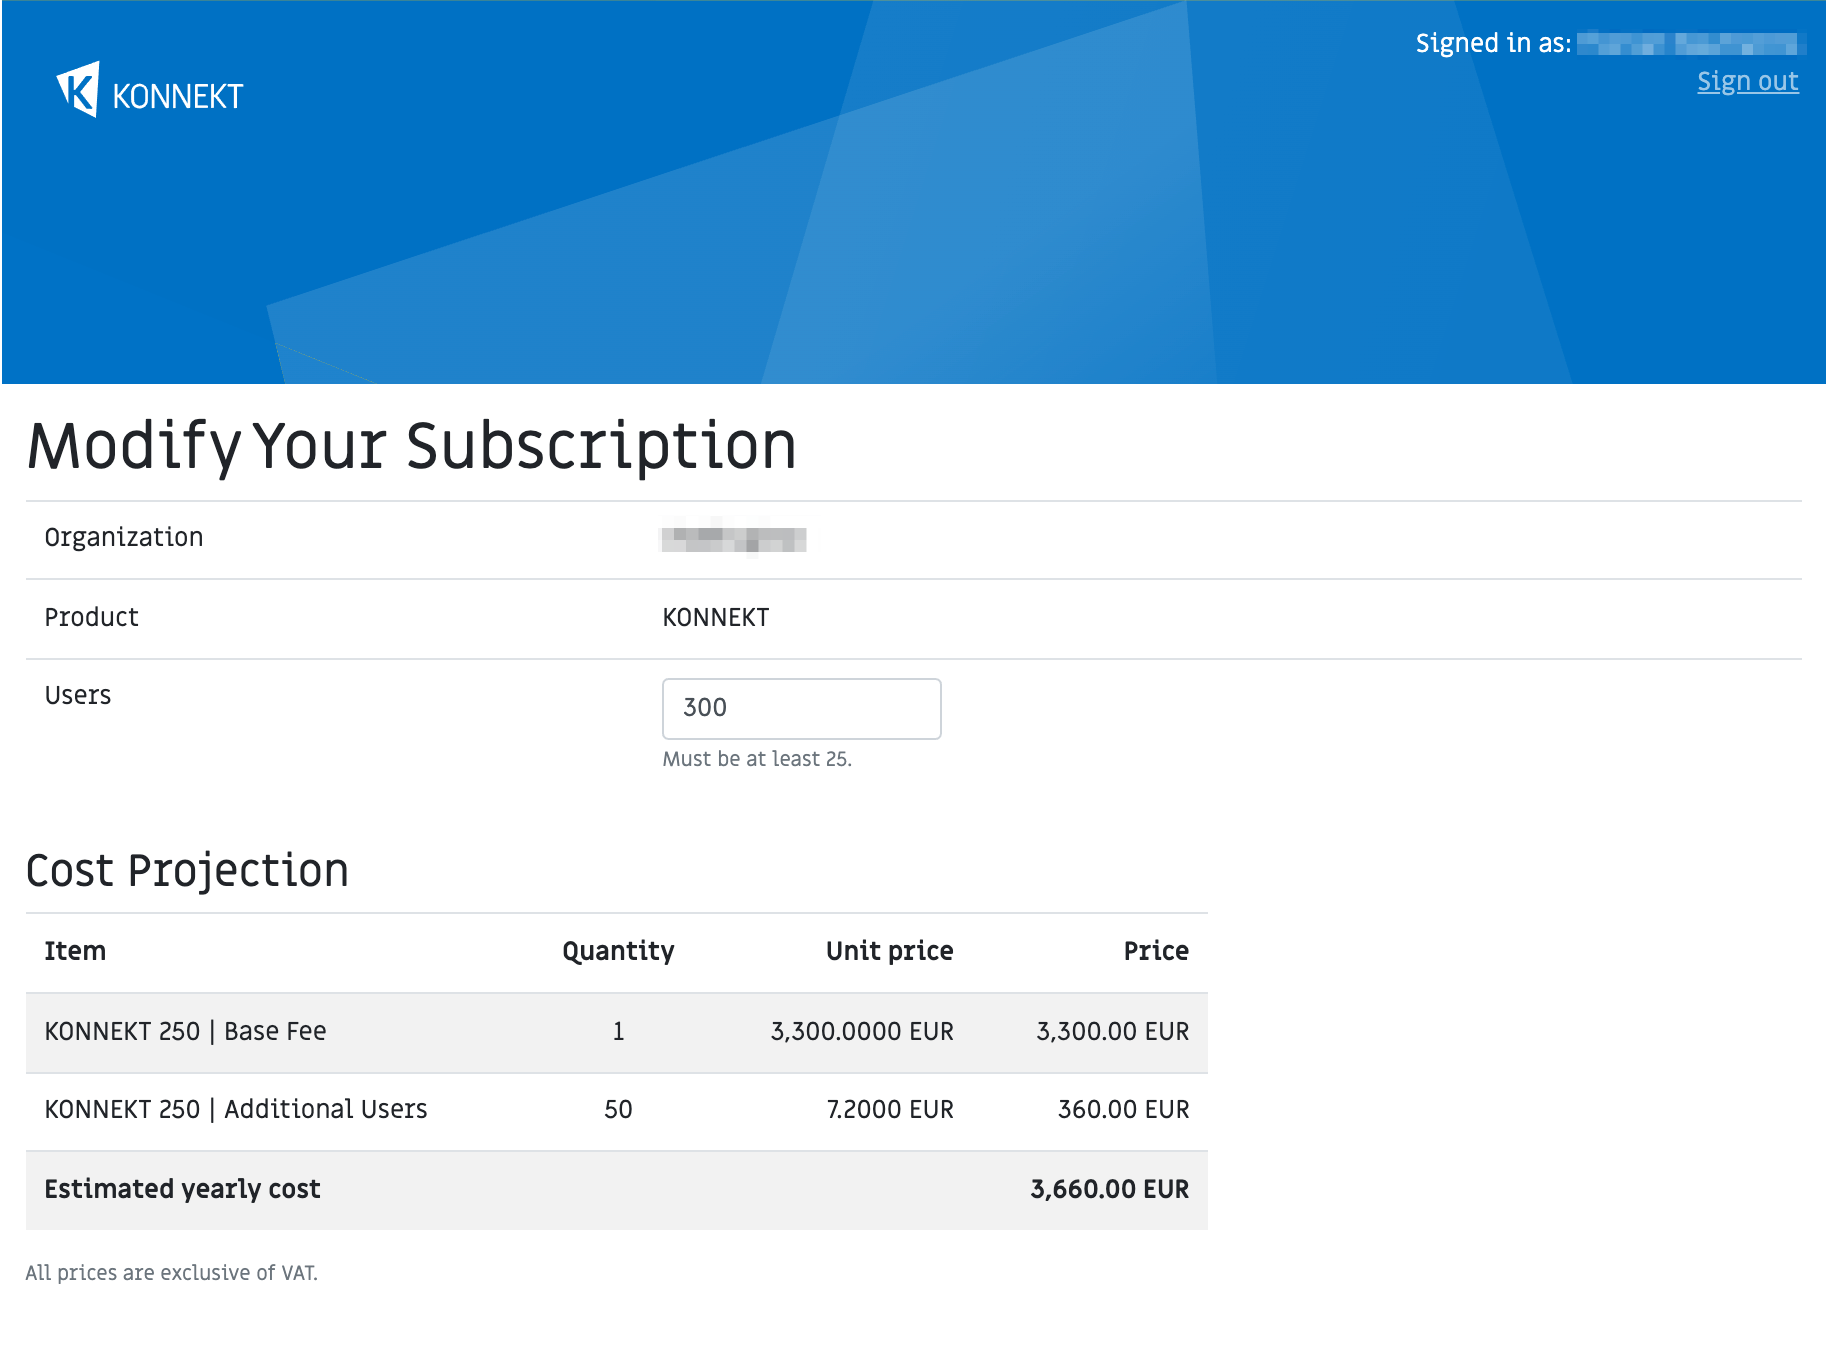
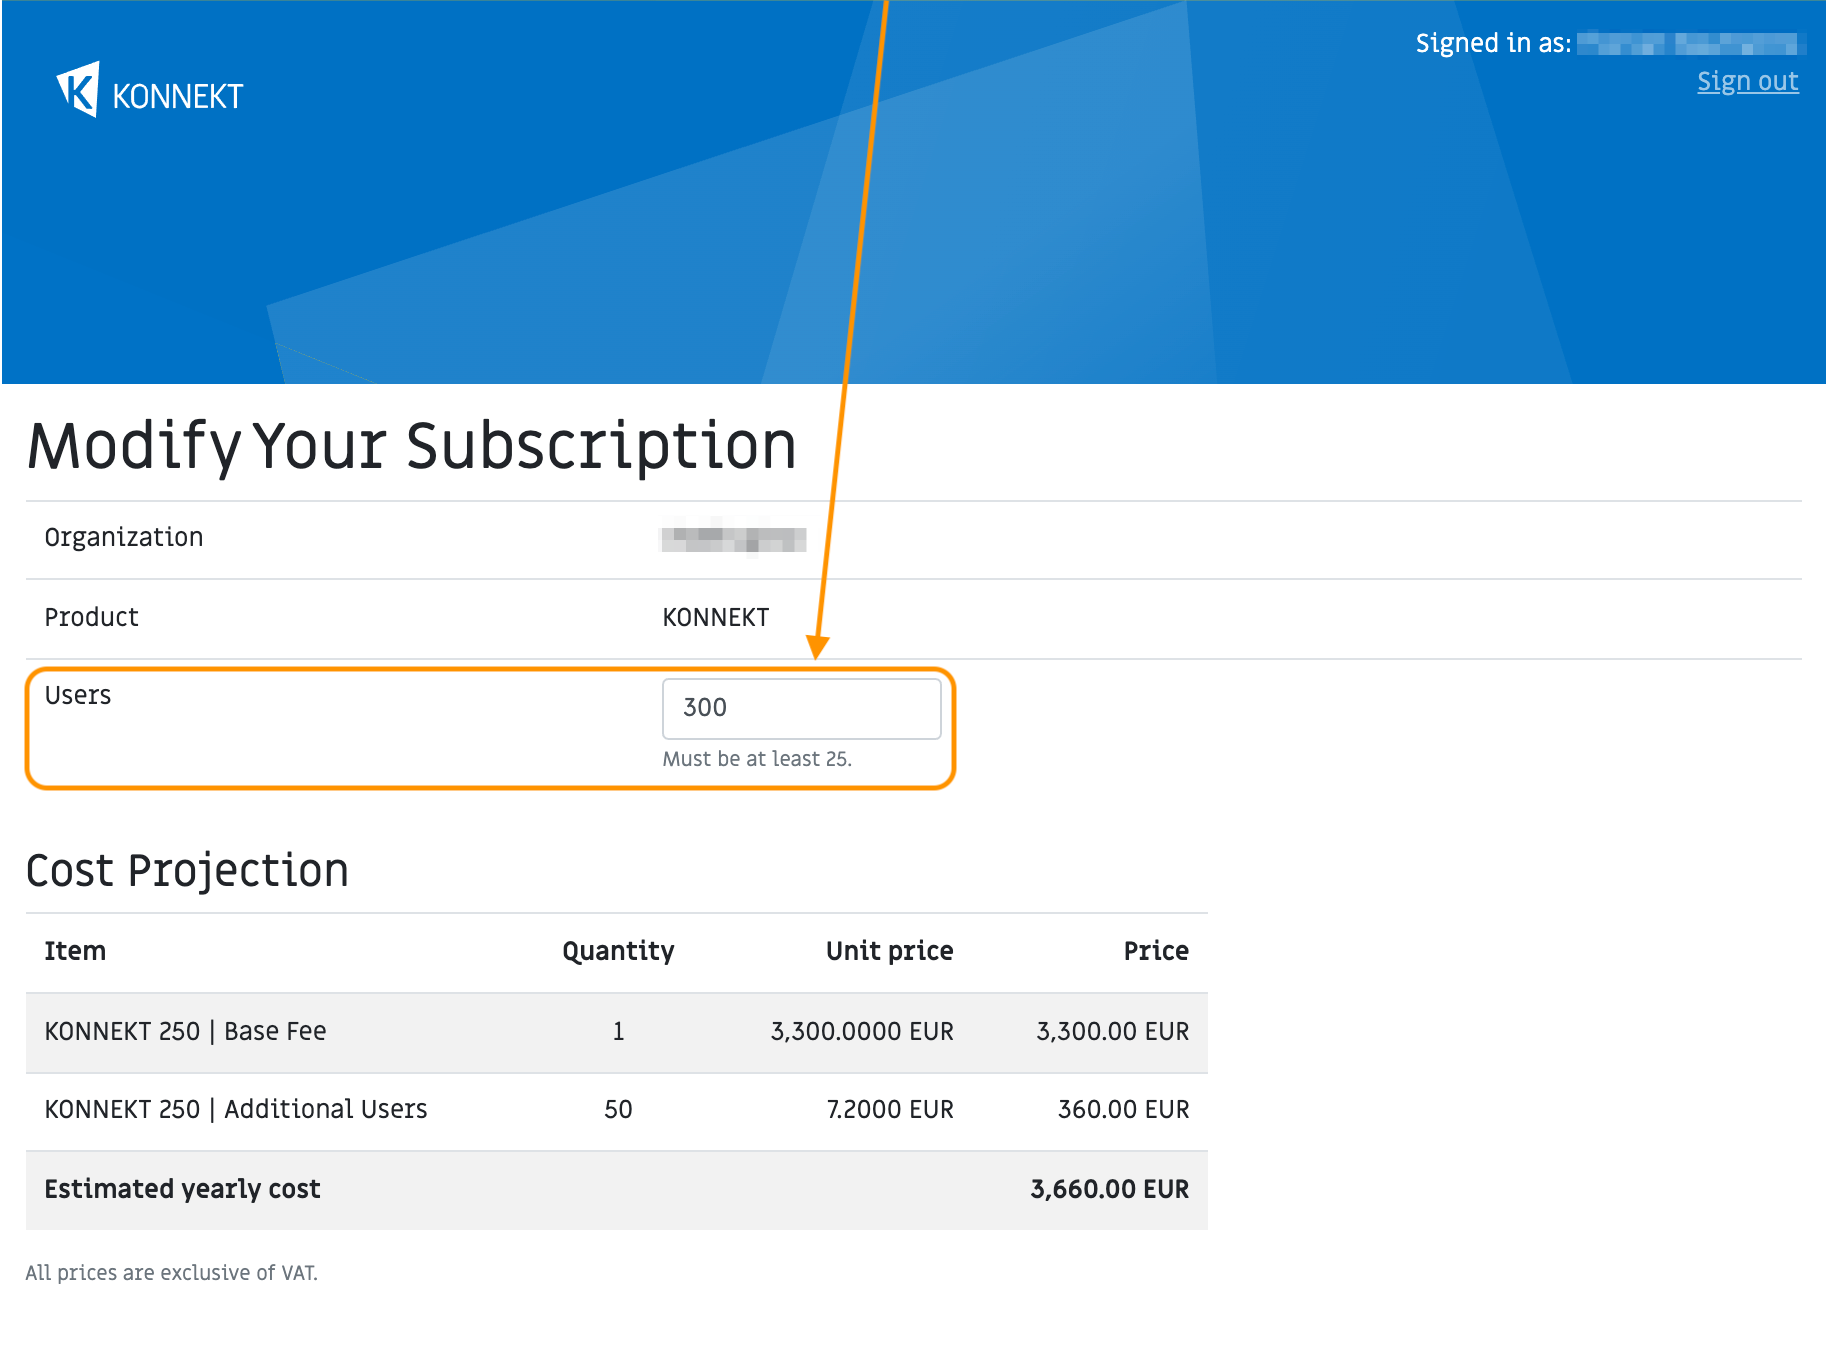
GitBook: [#279] No subject

Changed region(s): [[0.0311, 0.2478, 0.4984, 0.4956], [0.0, 0.4956, 0.5295, 0.5885], [0.4672, 0.0, 0.4984, 0.1858]]

diff --git a/licensing.md b/licensing.md
@@ -39,9 +39,9 @@ It is **not** allowed to&#x20;
 * The annual subscription plan consists of a **base fee** which includes a certain amount of users per year - depending on the **user segment**. For example, the **base fee** for the user segment _KONNEKT 25_ includes 25 users per year.
 * If more than the included amount of users is required, **additional users** can be added to the  plan. For each additional user, we charge an additional annual per-user fee.
 * The logic on our platform will always choose the cheapest user segment based on your desired amount of total users. For example, if you require 300 users, we will charge you based on the user segment _KONNEKT 250_. This includes the __ base fee for 250 users plus 50 additional users in the user segment _KONNEKT 250_.
-* You will be prompted for your desired total user count on our platform during the subscription enrolment process.
+* You will be prompted for your desired **total user** **count** on our platform during the subscription enrolment process.
 
-![](<.gitbook/assets/konnekt-landing-page (1).png>)
+![](<.gitbook/assets/konnekt-landing-page (2).png>)
 
 * Upon initial subscription enrolment or during an intermediate subscription upgrade, our platform will inform you about the billing items we will report to Microsoft as well as the associated licensing costs in _your_ currency.
 
